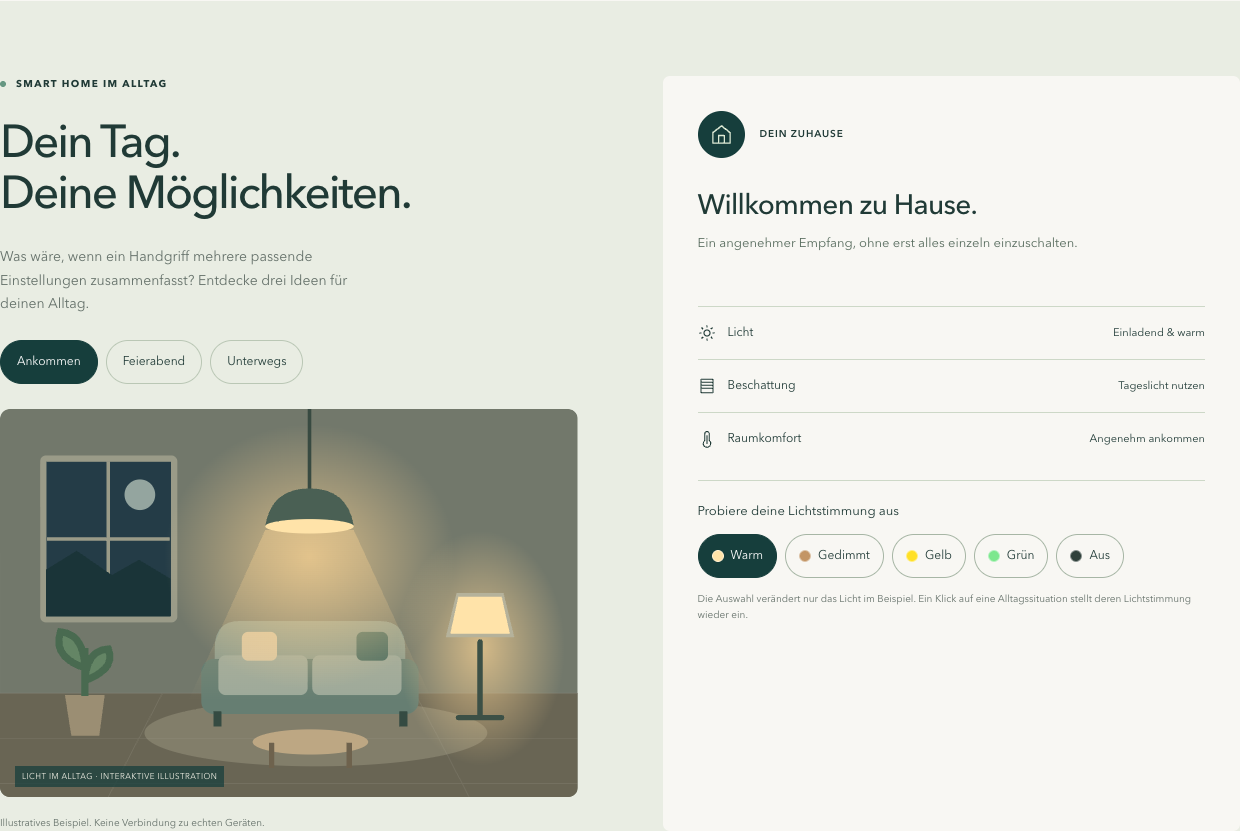
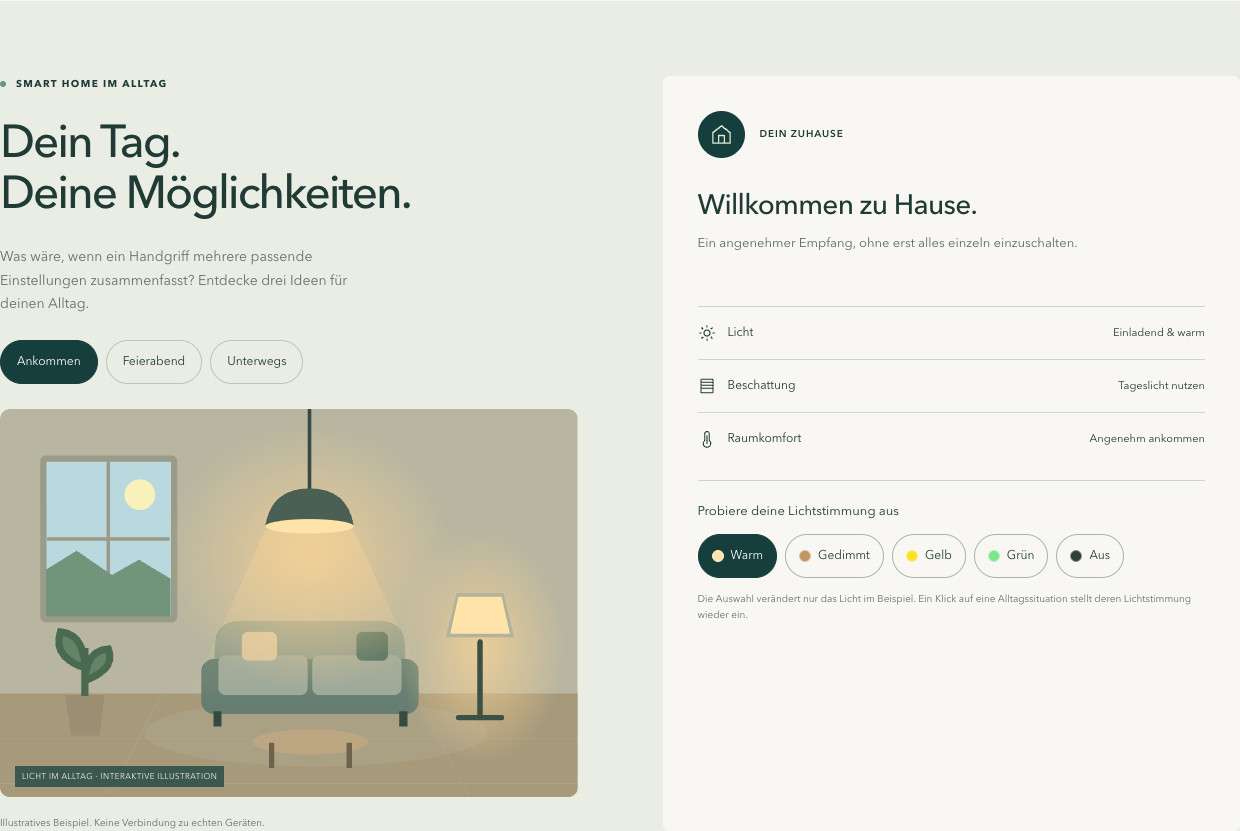
Ankommen mit Tageslicht und heller Raumansicht darstellen

Changed region(s): [[0.0, 0.4813, 0.4903, 0.9627]]

diff --git a/public/assets/app.js b/public/assets/app.js
@@ -101,7 +101,7 @@ if (sceneData) {
   const lightLabels = { warm: "Einladend & warm", dim: "Warm & gedimmt", yellow: "Gelbes Licht", green: "Grünes Licht", off: "Gewählte Lichter aus" };
   function setLight(mode) {
     room.dataset.light = mode;
-    room.setAttribute("aria-label", "Wohnraum mit zwei Lampen: " + lightLabels[mode]);
+    room.setAttribute("aria-label", "Wohnraum mit zwei Lampen " + (room.dataset.time === "day" ? "bei Tageslicht" : "am Abend") + ": " + lightLabels[mode]);
     document.querySelector("[data-scene-light]").textContent = lightLabels[mode];
     document.querySelectorAll("[data-light-choice]").forEach((choice) => choice.setAttribute("aria-pressed", String(choice.dataset.lightChoice === mode)));
   }
@@ -109,6 +109,7 @@ if (sceneData) {
   for (const button of document.querySelectorAll("[data-scene]")) {
     button.addEventListener("click", () => {
       const scene = scenes[button.dataset.scene];
+      room.dataset.time = button.dataset.scene === "ankommen" ? "day" : "night";
       setLight({ ankommen: "warm", feierabend: "dim", unterwegs: "off" }[button.dataset.scene]);
       for (const tab of document.querySelectorAll("[data-scene]"))
         tab.setAttribute("aria-pressed", String(tab === button));

diff --git a/public/assets/styles.css b/public/assets/styles.css
@@ -1085,6 +1085,9 @@
   .light-room[data-light="yellow"] { --lamp-color:#ffe027; --lamp-surface:#ffeb78; --room-wall:#777650; --room-floor:#6a6440; }
   .light-room[data-light="green"] { --lamp-color:#7de78e; --lamp-surface:#adf3b4; --room-wall:#436553; --room-floor:#435d44; }
   .light-room[data-light="off"] { --lamp-color:#000; --lamp-surface:#858a79; --room-wall:#273b3e; --room-floor:#303e3a; }
+  .light-room[data-time="day"] { --window-sky:#b9d9df; --sky-light:#fff4b6; --window-landscape:#72947a; }
+  .light-room[data-time="day"][data-light="warm"] { --room-wall:#b8b6a0; --room-floor:#a69a7b; }
+  .light-room[data-time="day"][data-light="off"] { --room-wall:#929b8c; --room-floor:#8a8570; }
   .light-room svg { width:100%; height:auto; }
   .light-room svg * { transition:fill .45s, opacity .45s; }
   .room-light-pools { opacity:1; transition:opacity .45s; }

diff --git a/docs/PROJEKTSTAND.md b/docs/PROJEKTSTAND.md
@@ -4,6 +4,9 @@ Stand: 29.10.2026 · interaktive Lichtsimulation ergänzt
 
 ## Aktueller Stand
 
+- Tageslichtkorrektur: „Ankommen“ zeigt jetzt einen hellen Raum, blauen Himmel und Sonne passend zu „Tageslicht nutzen“. Feierabend und Unterwegs behalten die Abendansicht. Manuelle Lichtfarben erhalten die Tageszeit der gewählten Situation. Branch: `fix/smart-home-tageslicht`.
+
+
 - Gabriels Lichtidee umgesetzt: eigener illustrierter Wohnraum mit Pendel- und Stehleuchte. Ankommen setzt warmes Licht, Feierabend gedimmtes Licht und Unterwegs ausgeschaltetes Licht. Rechts sind Warm, Gedimmt, Gelb, Grün und Aus direkt wählbar. Raumhintergrund, Leuchtflächen, Lichtkegel und Lichtbeschreibung wechseln gemeinsam. Ein Szenenwechsel setzt eine manuelle Lichtwahl zurück.
 - Umsetzung als skalierbare SVG-/CSS-Illustration in `src/room.mjs`, ohne neue Bilddateien oder Geräteanbindung. Bedienelemente mit Tastatur und sichtbarem Auswahlzustand; bei reduzierter Bewegung ohne Übergangsanimation. Ohne JavaScript bleibt die statische warme Illustration sichtbar. Themenbranch: `feat/smart-home-lichtsimulation`, abgeleitet von `feat/smart-home-details` (Commit `8ddc091`).
 
